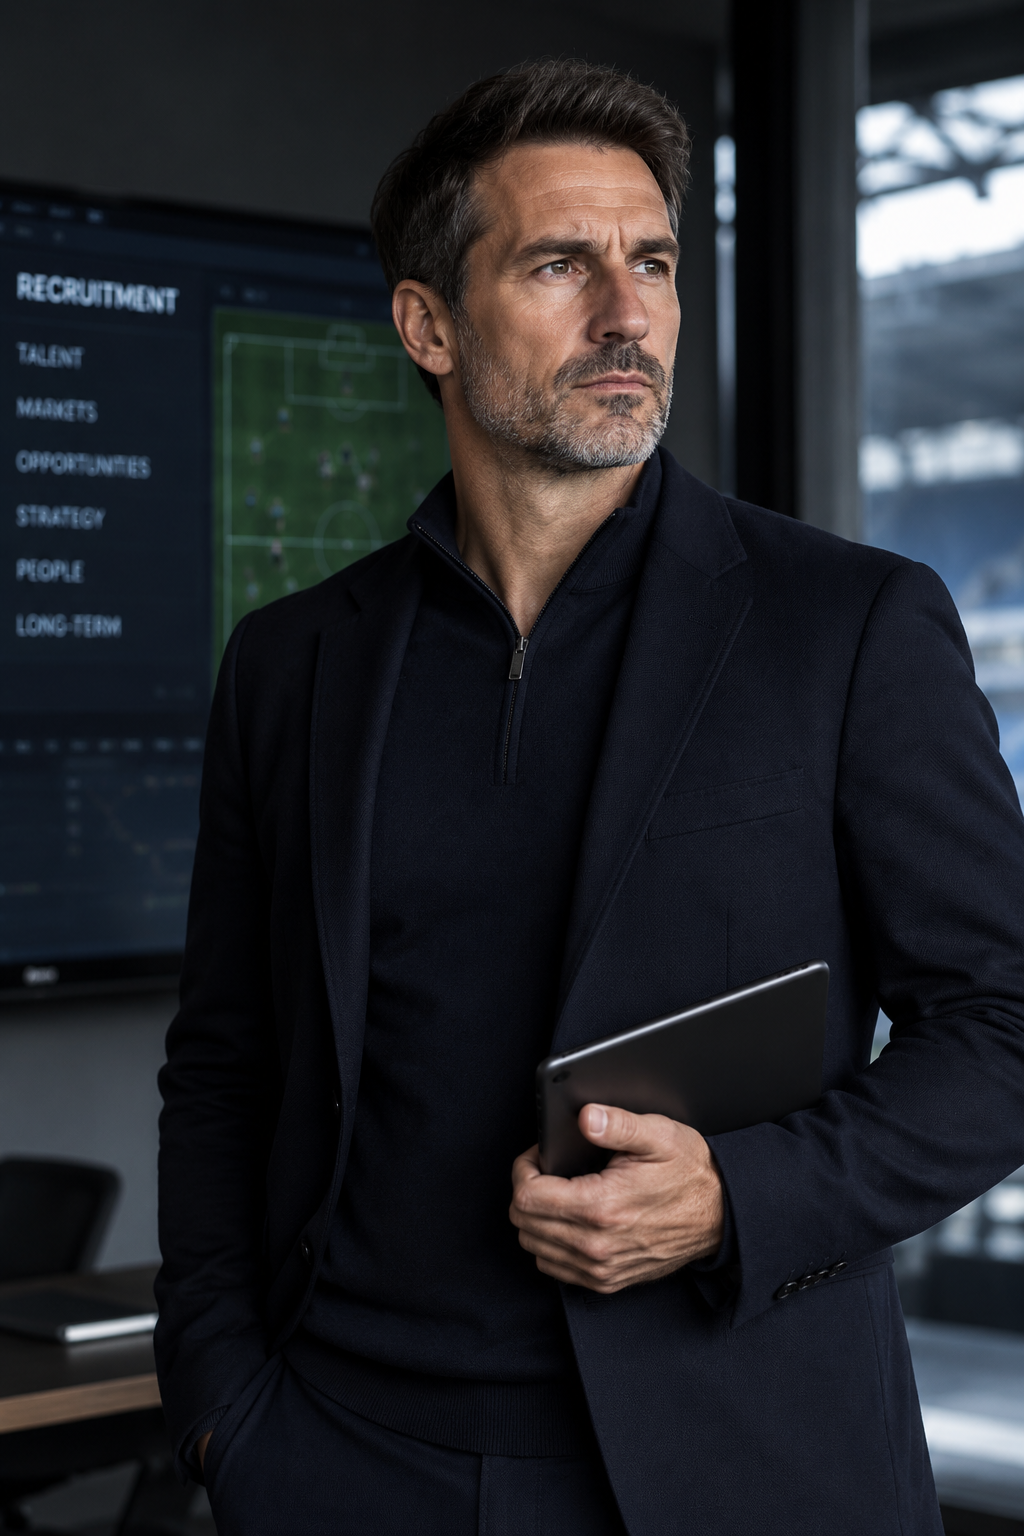
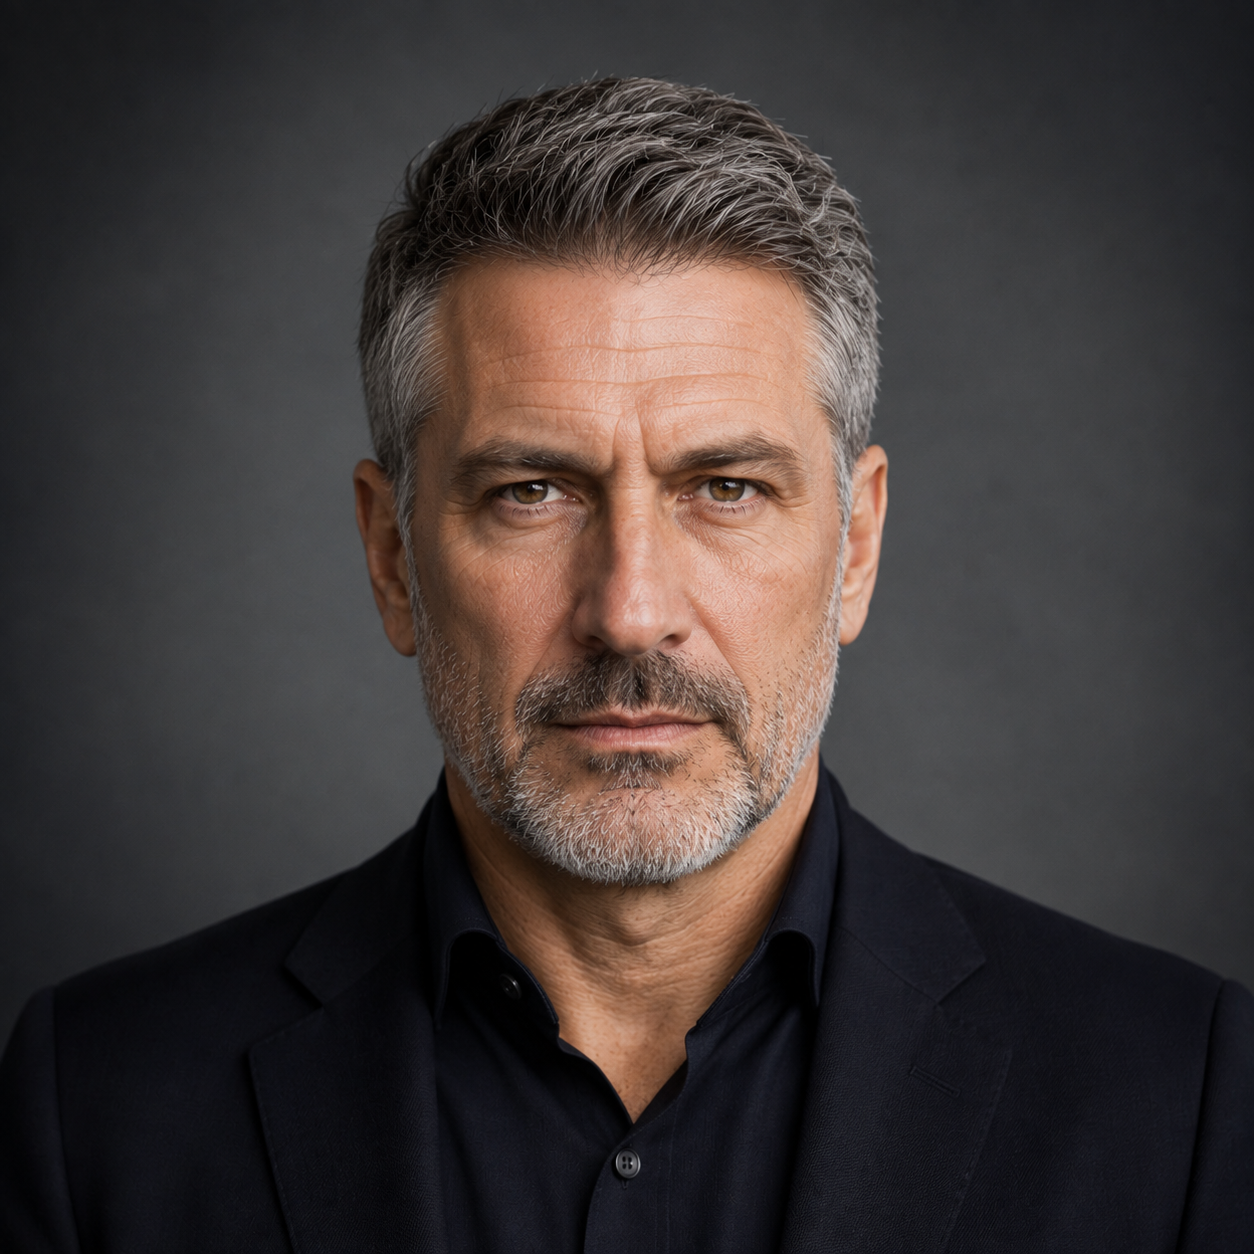
Polish Head of Recruitment diagnostic

diff --git a/app/assessment/page.tsx b/app/assessment/page.tsx
@@ -4467,7 +4467,8 @@ function AssessmentContent() {
                 <>
                   <div className="mb-4 overflow-hidden rounded-xl border border-fei-bg/[0.11] bg-white shadow-[0_4px_14px_rgba(15,23,42,0.025)]">
                     <div className="px-5 py-4 sm:px-6">
-                      {selectedRole === 'Fitness Coach' ? (
+                      {selectedRole === 'Fitness Coach' ||
+                      (selectedRole === 'Head of Scouting' && !item.context.includes('\n\n')) ? (
                         <p className="max-w-[760px] whitespace-pre-line text-[15px] font-normal leading-7 tracking-[-0.004em] text-fei-bg/72 select-none">
                           {item.context}
                         </p>
@@ -4704,7 +4705,8 @@ function AssessmentContent() {
                               selectedRole === 'Sports Psychologist' ||
                               selectedRole === 'Nutritionist' ||
                               selectedRole === 'Academy Director' ||
-                              selectedRole === 'Scout'
+                              selectedRole === 'Scout' ||
+                              selectedRole === 'Head of Scouting'
                             ? 'max-w-[780px] text-lg font-semibold leading-7 tracking-[-0.008em] text-fei-bg/88 sm:text-xl'
                             : selectedRole === 'Assistant Coach'
                               ? 'max-w-[780px] text-lg font-medium leading-7 tracking-[-0.008em] text-fei-bg/88 sm:text-xl'
@@ -4804,9 +4806,11 @@ function AssessmentContent() {
         : undefined
 
     const vocabularySpeaker =
-      selectedRole === 'Scout'
-        ? 'Scout'
-        : fixedProfessionalPlayerSpeaker?.speaker ??
+      selectedRole === 'Head of Scouting'
+        ? 'Head of Recruitment'
+        : selectedRole === 'Scout'
+          ? 'Scout'
+          : fixedProfessionalPlayerSpeaker?.speaker ??
           (vocabularyContext.includes('sporting director')
         ? 'Sporting Director'
         : vocabularyContext.includes('analyst')
@@ -4826,12 +4830,15 @@ function AssessmentContent() {
     const vocabularyQuoteMatch = item.context.match(/[“"](.+)[”"]$/)
     const vocabularyQuote = vocabularyQuoteMatch?.[1] ?? item.context
 
-    const vocabularySetup = item.context
-      .replace(
-        /\s*(?:A teammate shouts|A player asks|The coach says|The physiotherapist (?:asks|says)|The player says|The psychologist says|The report says|The assistant coach says|The Sporting Director says|The analyst says|The nutritionist (?:says|explains)|The nutrition plan says|The nutrition review states|The Academy Director says|The academy report says|The pathway review says|The Scout says|The recruitment report says|The Scout explains|The scouting review states):\s*[“"].*[”"]$/i,
-        '',
-      )
-      .trim()
+    const vocabularySetup =
+      selectedRole === 'Head of Scouting'
+        ? ''
+        : item.context
+            .replace(
+              /\s*(?:A teammate shouts|A player asks|The coach says|The physiotherapist (?:asks|says)|The player says|The psychologist says|The report says|The assistant coach says|The Sporting Director says|The analyst says|The nutritionist (?:says|explains)|The nutrition plan says|The nutrition review states|The Academy Director says|The academy report says|The pathway review says|The Scout says|The recruitment report says|The Scout explains|The scouting review states):\s*[“"].*[”"]$/i,
+              '',
+            )
+            .trim()
 
     return (
       <div className="min-h-screen bg-[#F6F7F9] text-fei-bg">
@@ -5314,7 +5321,8 @@ function AssessmentContent() {
                   : selectedRole === 'Head Coach'
                     ? 'mt-2 max-w-[760px] break-words text-[15px] font-normal leading-7 tracking-[-0.004em] text-fei-bg/72'
                     : selectedRole === 'Performance Analyst' ||
-                        selectedRole === 'Physiotherapist'
+                        selectedRole === 'Physiotherapist' ||
+                        selectedRole === 'Head of Scouting'
                       ? 'mt-2 max-w-[760px] break-words text-[15px] font-normal leading-7 tracking-[-0.004em] text-fei-bg/72'
                       : 'mt-5 text-base leading-8 text-fei-bg/70'
               }
@@ -5650,7 +5658,8 @@ function AssessmentContent() {
                     : selectedRole === 'Assistant Coach'
                       ? 'mt-4 max-w-[760px] text-[15px] leading-7 tracking-[-0.004em] text-fei-bg/72 sm:text-base'
                       : selectedRole === 'Performance Analyst' ||
-                          selectedRole === 'Physiotherapist'
+                          selectedRole === 'Physiotherapist' ||
+                          selectedRole === 'Head of Scouting'
                         ? 'mt-2 max-w-[760px] break-words text-[15px] font-normal leading-7 tracking-[-0.004em] text-fei-bg/72'
                         : 'mt-5 text-base leading-8 text-fei-bg/70'
               }
@@ -5697,7 +5706,8 @@ function AssessmentContent() {
                     : selectedRole === 'Assistant Coach'
                       ? 'max-w-[720px] text-xl font-bold leading-8 tracking-[-0.015em] text-fei-bg sm:text-2xl'
                       : selectedRole === 'Performance Analyst' ||
-                          selectedRole === 'Physiotherapist'
+                          selectedRole === 'Physiotherapist' ||
+                          selectedRole === 'Head of Scouting'
                         ? 'max-w-[780px] text-lg font-semibold leading-7 tracking-[-0.008em] text-fei-bg/88 sm:text-xl'
                         : 'text-xl font-black leading-8 text-fei-bg'
               }
